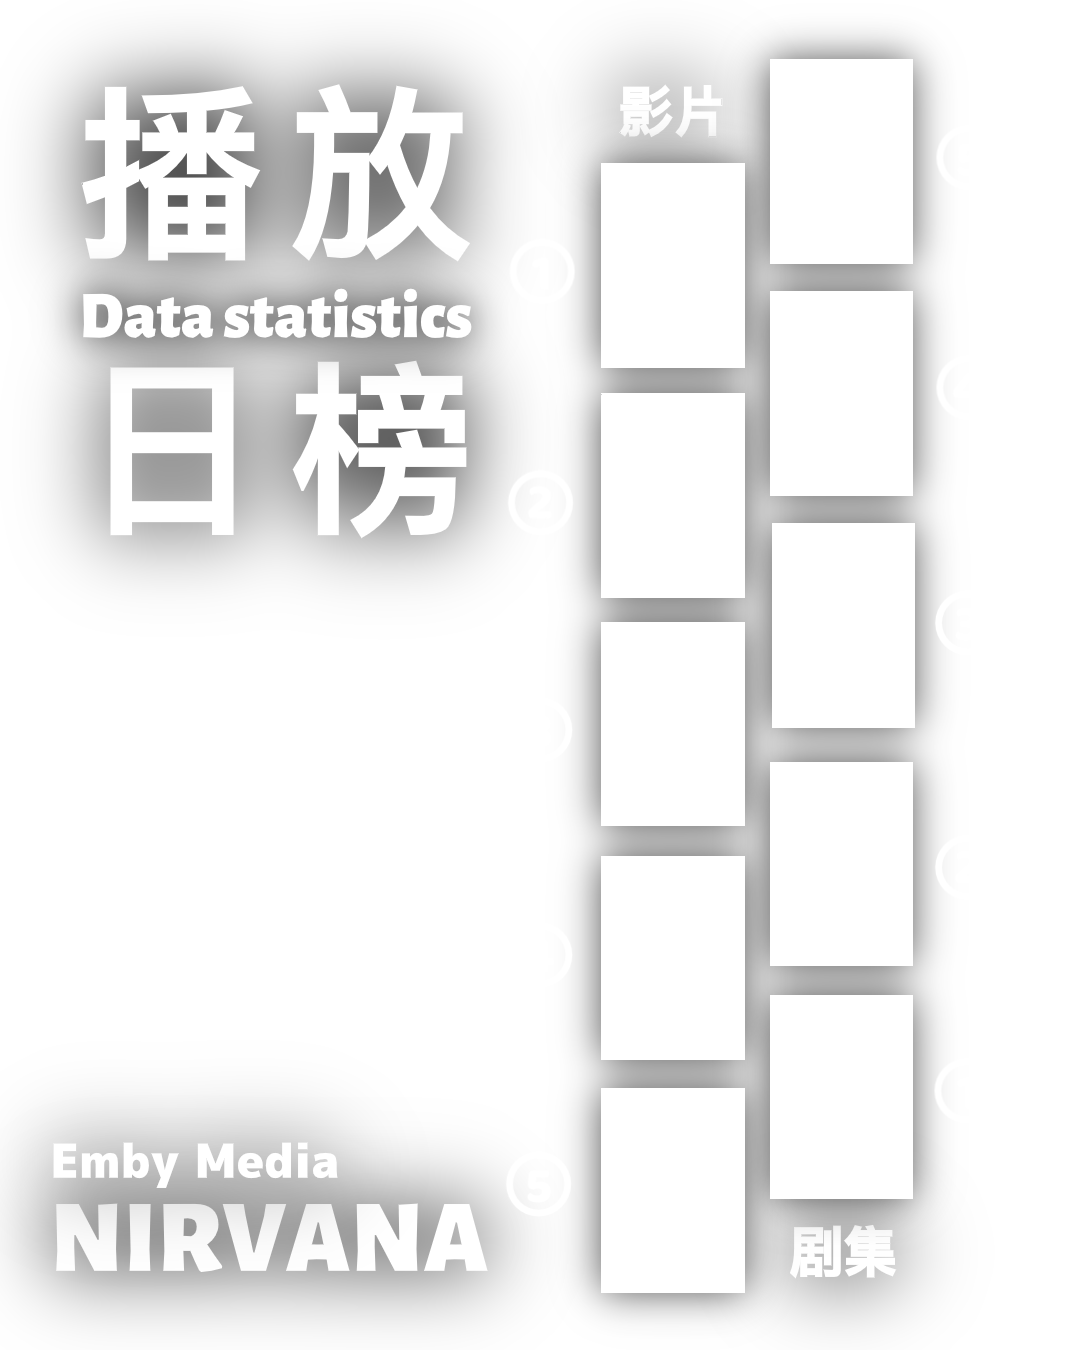
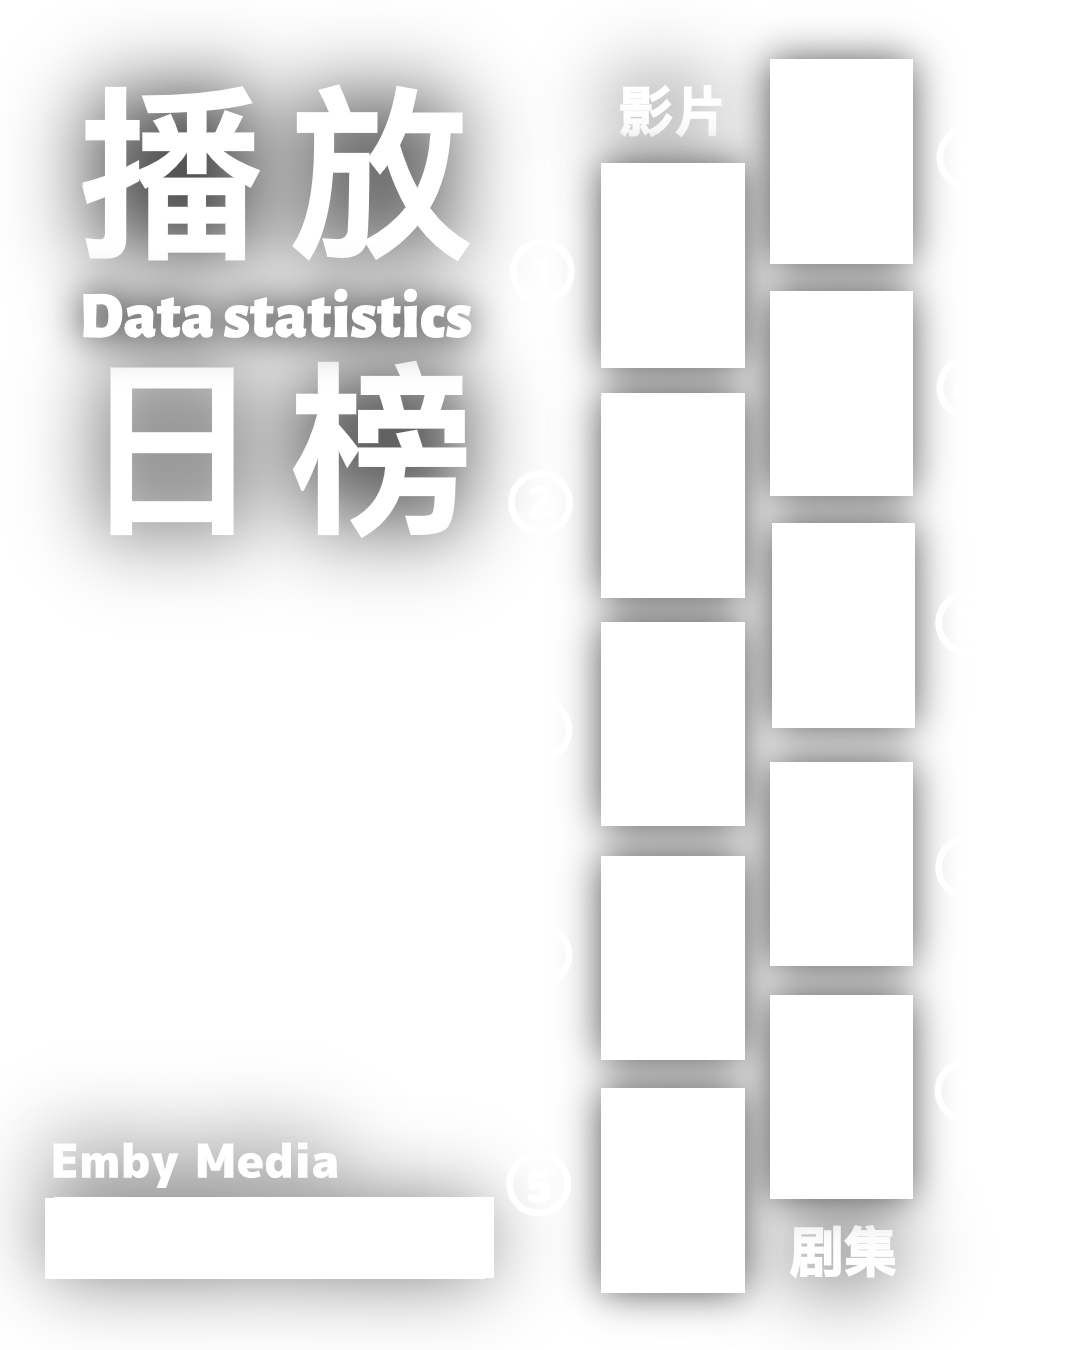
add ranks task

Changed region(s): [[0.0306, 0.8711, 0.4583, 0.9644]]

diff --git a/bot/func/ranks_task.py b/bot/func/ranks_task.py
@@ -1,0 +1,94 @@
+"""
+定时推送日榜和周榜
+"""
+from datetime import date
+from apscheduler.schedulers.asyncio import AsyncIOScheduler
+from bot.reply import emby
+from bot.ranks import ranks_draw
+from config import bot, group
+
+async def day_ranks():
+    draw = ranks_draw.RanksDraw('SAKURA')
+    print("#定时任务\n正在推送日榜")
+    success, movies = await emby.get_emby_report(types='Movie', days = 1)
+    if not success:
+        print('推送日榜失败，没有获取到Movies数据!')
+        return
+    success, tvs = await emby.get_emby_report(types='Episode', days = 1)
+    if not success:
+        print('推送日榜失败，没有获取到Episode数据!')
+        return
+    # 绘制海报
+    await draw.draw(movies, tvs, False)
+    path = draw.save()
+
+    try:
+        # todo: get stored message id
+        await bot.unpin_chat_message(chat_id=group[0], message_id=0)
+    except:
+        pass
+    payload = ""
+    if movies:
+        tmp = "*电影:*\n\n"
+        for i,movie in enumerate(movies[:10]):
+            user_id, item_id, item_type, name, count, duarion = tuple(movie)
+            tmp += str(i + 1) + "." + name + "-" + str(count) + "\n"
+        payload = tmp
+    if tvs:
+        tmp = "\n*电视剧:*\n\n"
+        for i, tv in enumerate(tvs[:10]):
+            user_id, item_id, item_type, name, count, duarion = tuple(tv)
+            tmp += str(i + 1) + "." + name + "-" + str(count) + "\n"
+        payload += tmp
+    payload = f"*【播放日榜】*\n\n" + payload + "\n#DayRanks" + "  " + date.today().strftime(
+        '%Y-%m-%d')
+    message_info = await bot.send_photo(chat_id=group[0], photo=open(path, "rb"), caption=payload)
+    await bot.pin_chat_message(chat_id=message_info.chat.id, message_id=message_info.id)
+    print("#定时任务\n推送日榜完成")
+async def week_ranks():
+    draw = ranks_draw.RanksDraw('SAKURA', weekly = True)
+    print("#定时任务\n正在推送周榜")
+    success, movies = await emby.get_emby_report(types='Movie', days = 7)
+    if not success:
+        print('推送周榜失败，没有获取到Movies数据!')
+        return
+    success, tvs = await emby.get_emby_report(types='Episode', days = 7)
+    if not success:
+        print('推送周榜失败，没有获取到Episode数据!')
+        return
+    # 绘制海报
+    await draw.draw(movies, tvs, False)
+    path = draw.save()
+
+    try:
+        # todo: get stored message id
+        await bot.unpin_chat_message(chat_id=group[0], message_id=0)
+    except:
+        pass
+    payload = ""
+    if movies:
+        tmp = "*电影:*\n\n"
+        for i,movie in enumerate(movies[:10]):
+            user_id, item_id, item_type, name, count, duarion = tuple(movie)
+            tmp += str(i + 1) + "." + name + "-" + str(count) + "\n"
+        payload = tmp
+    if tvs:
+        tmp = "\n*电视剧:*\n\n"
+        for i, tv in enumerate(tvs[:10]):
+            user_id, item_id, item_type, name, count, duarion = tuple(tv)
+            tmp += str(i + 1) + "." + name + "-" + str(count) + "\n"
+        payload += tmp
+    payload = f"*【播放周榜】*\n\n" + payload + "\n#DayRanks" + "  " + date.today().strftime(
+        '%Y-%m-%d')
+    message_info = await bot.send_photo(chat_id=group[0], photo=open(path, "rb"), caption=payload)
+    await bot.pin_chat_message(chat_id=message_info.chat.id, message_id=message_info.id)
+    print("#定时任务\n推送周榜完成")
+
+
+# 创建一个AsyncIOScheduler对象
+scheduler = AsyncIOScheduler()
+# 添加一个cron任务，每天18点30分执行日榜推送
+scheduler.add_job(day_ranks, 'cron', hour=18, minute=0, timezone="Asia/Shanghai")
+scheduler.add_job(week_ranks, 'cron', day_of_week=0, hour=12, minute=0, timezone="Asia/Shanghai")
+# 启动调度器
+scheduler.start()

diff --git a/bot/ranks/ranks_draw.py b/bot/ranks/ranks_draw.py
@@ -9,17 +9,20 @@ from datetime import datetime
 from bot.reply import emby
 
 """
-Misty 周榜海报样式
+日榜周榜海报样式
 你可以根据你的需求自行封装或更改为你自己的周榜海报样式！
 """
 
 
 class RanksDraw:
 
-    def __init__(self):
+    def __init__(self, name=None, weekly = False):
         # 绘图文件路径初始化
         bg_path = os.path.join('bot','ranks', "resource", "bg")
-        mask_path = os.path.join('bot','ranks', "resource", "day_ranks_mask.png")
+        if weekly:
+            mask_path = os.path.join('bot','ranks', "resource", "week_ranks_mask.png")
+        else:
+            mask_path = os.path.join('bot','ranks', "resource", "day_ranks_mask.png")
         font_path = os.path.join('bot','ranks', "resource", "PingFang Bold.ttf")
         # 随机调取背景, 路径: res/ranks/bg/...
         bg_list = os.listdir(bg_path)
@@ -32,17 +35,18 @@ class RanksDraw:
         self.font = ImageFont.truetype(font_path, 18)
         self.font_small = ImageFont.truetype(font_path, 14)
         self.font_count = ImageFont.truetype(font_path, 12)
+        self.font_logo = ImageFont.truetype(font_path, 70)
+        self.name = name
 
-    def draw(self, movies=[], tvshows=[], show_count=False):
+    async def draw(self, movies=[], tvshows=[], show_count=False):
         # 合并绘制
         index = 0
         font_offset_y = 190
         for i in movies[:5]:
             # 榜单项数据
             user_id, item_id, item_type, name, count, duarion = tuple(i)
-            print(item_type, item_id, name, count)
             # 封面图像获取
-            success, data = emby.primary(item_id)
+            success, data = await emby.primary(item_id)
             if not success:
                 exit(data)
             # 名称显示偏移
@@ -66,15 +70,14 @@ class RanksDraw:
         for i in tvshows[:5]:
             # 榜单项数据
             user_id, item_id, item_type, name, count, duarion = tuple(i)
-            print(item_type, item_id, name, count)
             # 图片获取，剧集主封面获取
             # 获取剧ID
-            success, data = emby.items(user_id, item_id)
+            success, data = await emby.items(user_id, item_id)
             if not success:
                 exit(data)
             item_id = data["SeriesId"]
             # 封面图像获取
-            success, data = emby.primary(item_id)
+            success, data = await emby.primary(item_id)
             if not success:
                 exit(data)
             temp_font = self.font
@@ -90,8 +93,12 @@ class RanksDraw:
                 draw_text_psd_style(text, (770 + 130, 990 - (232 * index)), str(count), self.font_count, 126)
                 draw_text_psd_style(text, (770, 990 + font_offset_y - (232 * index)), name, temp_font, 126)
             index += 1
+        if self.name:
+            text= text = ImageDraw.Draw(self.bg)
+            draw_text_psd_style(text, (50, 1185), self.name, self.font_logo, 126)
 
-    def save(self, save_path=os.path.join('bot',"ranks", "result", datetime.now(pytz.timezone("Asia/Shanghai")).strftime("%Y-%m-%d.jpg"))):
+    def save(self, save_path=os.path.join('log', datetime.now(pytz.timezone("Asia/Shanghai")).strftime("%Y-%m-%d.jpg"))):
+        if self.bg.mode in ("RGBA", "P"): self.bg = self.bg.convert("RGB")
         self.bg.save(save_path)
         return save_path
     def test(self, movies = [], tvshows=[], show_count=False):
@@ -174,6 +181,7 @@ def draw_text_psd_style(draw, xy, text, font, tracking=0, leading=None, **kwargs
             x += w + (tracking / 1000) * font_size
         y += leading
         x = xy[0]
-draw = RanksDraw()
-draw.test()
-draw.save()
+# if __name__ == "__main__":
+#     draw = RanksDraw()
+#     draw.test()
+#     draw.save()

diff --git a/bot/reply/emby.py b/bot/reply/emby.py
@@ -1,5 +1,5 @@
 import re
-from datetime import datetime, timedelta
+from datetime import datetime, timedelta, timezone
 import requests as r
 from _mysql.sqlhelper import update_one, select_one, create_conn, close_conn
 from bot.reply.mima import pwd_create
@@ -193,8 +193,8 @@ async def re_admin(id):
         return False
 async def items(user_id, item_id):
     try:
-        _url = f"{url}/emby/Users/{user_id}/Items/{item_id}"
-        resp = requests.get(_url, headers=headers, params=params, timeout=10)
+        _url = f"{url}emby/Users/{user_id}/Items/{item_id}"
+        resp = r.get(_url, headers=headers, params=params, timeout=10)
         if resp.status_code != 204 and resp.status_code != 200:
             return False, {'error':"🤕Emby 服务器连接失败!"}
         return True, resp.json()
@@ -202,14 +202,14 @@ async def items(user_id, item_id):
         return False, {'error': e}
 async def primary(item_id, width=200, height=300, quality=90):
     try:
-        _url = f"{url}/emby/Items/{item_id}/Images/Primary?maxHeight={height}&maxWidth={width}&quality={quality}"
-        resp = requests.get(url, headers=headers, params=params, timeout=10)
+        _url = f"{url}emby/Items/{item_id}/Images/Primary?maxHeight={height}&maxWidth={width}&quality={quality}"
+        resp = r.get(_url, headers=headers, params=params, timeout=10)
         if resp.status_code != 204 and resp.status_code != 200:
             return False, {'error': "🤕Emby 服务器连接失败!"}
         return True, resp.content
     except Exception as e:
         return False, {'error': e}
-async def get_emby_report(self, types='Movie', user_id=None, days=7, end_date=datetime.datetime.now(pytz.timezone("Asia/Shanghai")), limit=10):
+async def get_emby_report(types='Movie', user_id=None, days=7, end_date=datetime.now(timezone(timedelta(hours=8))), limit=10):
     try:
         sub_date = end_date - timedelta(days=days)
         start_time = sub_date.strftime("%Y-%m-%d 00:00:00")
@@ -230,12 +230,12 @@ async def get_emby_report(self, types='Movie', user_id=None, days=7, end_date=da
         sql += "GROUP BY name "
         sql += "ORDER BY play_count DESC "
         sql += "LIMIT " + str(limit)
-        _url = f'{url}/emby/user_usage_stats/submit_custom_query'
+        _url = f'{url}emby/user_usage_stats/submit_custom_query'
         data = {
             "CustomQueryString": sql,
             "ReplaceUserId": False
         }
-        resp = requests.post(_url, headers=headers, params=params, json=data, timeout=10)
+        resp = r.post(_url, headers=headers, params=params, json=data, timeout=10)
         if resp.status_code != 204 and resp.status_code != 200:
             return False, {'error': "🤕Emby 服务器连接失败!"}
         ret = resp.json()

diff --git a/main.py b/main.py
@@ -9,7 +9,7 @@ from config import bot
 
 def main():
     from bot import admin_panel, config_panel, member_panel, mylogger, sever_panel, start
-    from bot.func import exchange, timed_task, kk, leave_unauth_chat, admin_command, user_permission
+    from bot.func import exchange, timed_task, ranks_task, kk, leave_unauth_chat, admin_command, user_permission
     from bot.extra import create
     from bot.reply import bot_commands, check_restart
 
